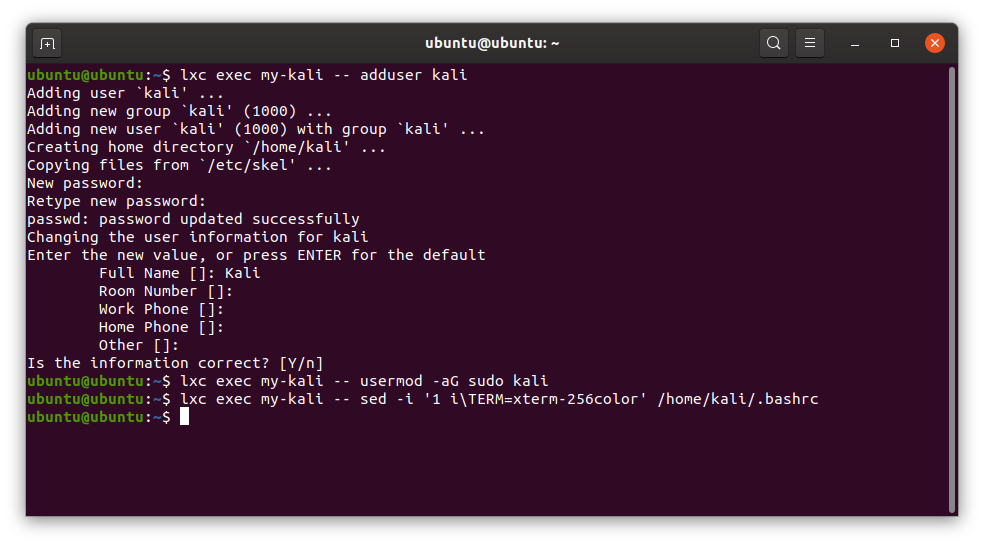
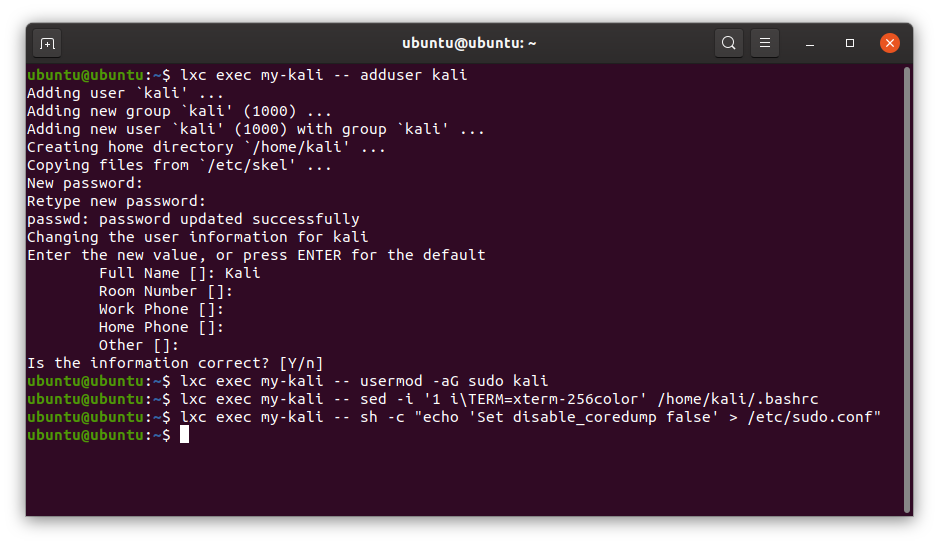
Add sudo fix to LXC/LXD doco

diff --git a/containers/kalilinux-lxc-images/index.md b/containers/kalilinux-lxc-images/index.md
@@ -103,6 +103,7 @@ Installing a Kali Linux container in Ubuntu only requires a few steps:
    lxc exec my-kali -- adduser kali
    lxc exec my-kali -- usermod -aG sudo kali
    lxc exec my-kali -- sed -i '1 i\TERM=xterm-256color' /home/kali/.bashrc
+   lxc exec my-kali -- sh -c "echo 'Set disable_coredump false' > /etc/sudo.conf"
    ```
 
    ![040_Ubuntu-Adduser.png](040_Ubuntu-Adduser.png)
@@ -137,7 +138,7 @@ Installing a Kali container to run GUI applications is similar to the previous e
 
 ------
 
-<!-- New list -->
+
 1 - Install lxd via snap and perform initial setup (if not already done):
 
    ```bash
@@ -170,6 +171,7 @@ Installing a Kali container to run GUI applications is similar to the previous e
    lxc exec my-kali -- usermod -aG sudo kali
    lxc exec my-kali -- sed -i '1 i\TERM=xterm-256color' /home/kali/.bashrc
    lxc exec my-kali -- echo "export DISPLAY=:0" >> /home/kali/.bashrc
+   lxc exec my-kali -- sh -c "echo 'Set disable_coredump false' > /etc/sudo.conf"
    ```
 
 5 - Start Kali Xfce panel via
